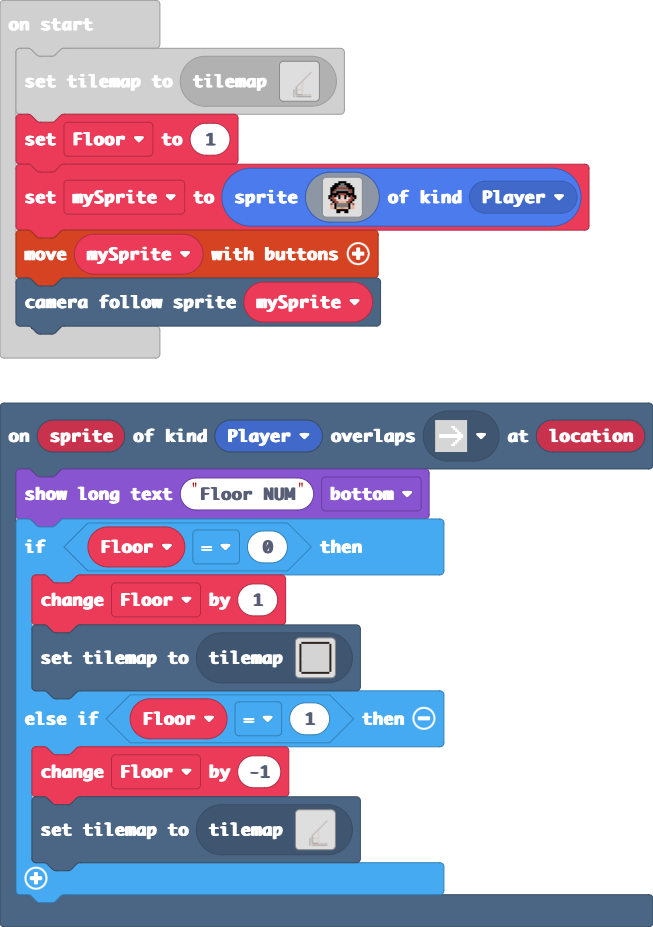
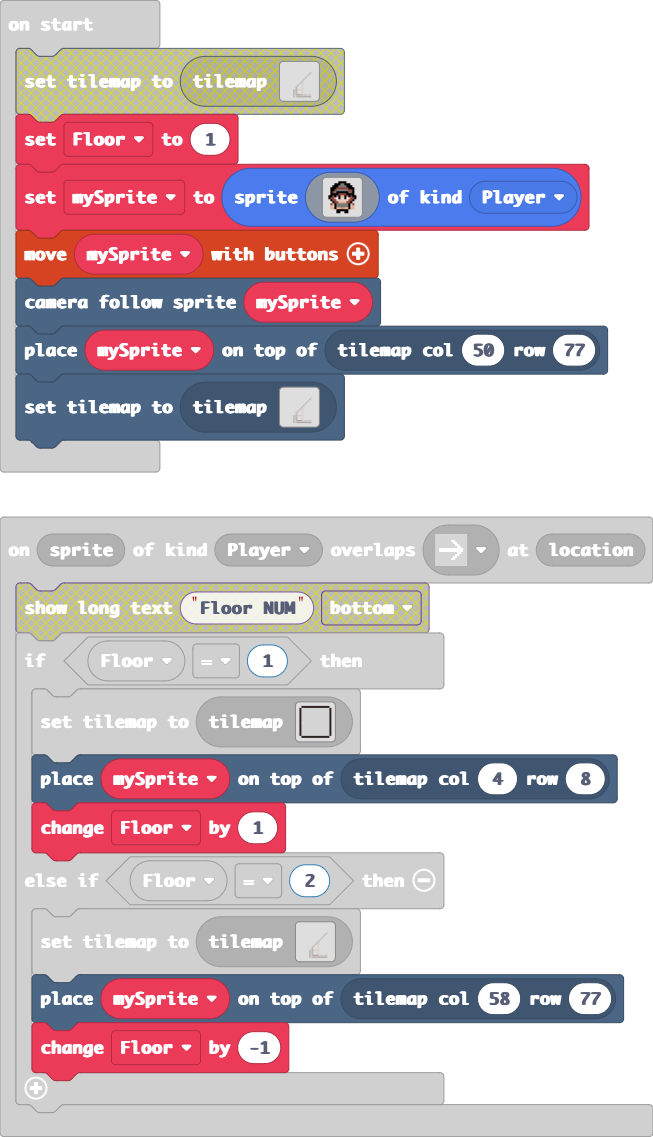
Update main.blocks, main.ts, tilemap.g.jres, tilemap.g.ts

diff --git a/tilemap.g.ts b/tilemap.g.ts
@@ -307,7 +307,64 @@ namespace myTiles {
 . . . . . . . . . . . . . . . . 
 . . . . . . . . . . . . . . . . 
 . . . . . . . . . . . . . . . . 
-`, [myTiles.transparency16,myTiles.tile1,myTiles.tile3,myTiles.tile4,myTiles.tile5,myTiles.tile6,myTiles.tile20], TileScale.Sixteen);
+`, [myTiles.transparency16,myTiles.tile1,myTiles.tile3,myTiles.tile4,myTiles.tile5,myTiles.tile6,myTiles.tile11], TileScale.Sixteen);
+            case "level6":
+            case "level6":return tiles.createTilemap(hex`1000100000000000000000000000000000000000000000000000000000000000000000000000000000000000000000000000000000000000000000000000000000000000000000000000000000000000000000000000000000000000000000000000000000000000000000000000000000000000000000000000000000000000000000000000000000000000000000000000000000000000000000000000000000000000000000000000000000000000000000000000000000000000000000000000000000000000000000000000000000000000000000000000000000000000000000000000000000000000000000000000000000000000000000000000000000000000`, img`
+. . . . . . . . . . . . . . . . 
+. . . . . . . . . . . . . . . . 
+. . . . . . . . . . . . . . . . 
+. . . . . . . . . . . . . . . . 
+. . . . . . . . . . . . . . . . 
+. . . . . . . . . . . . . . . . 
+. . . . . . . . . . . . . . . . 
+. . . . . . . . . . . . . . . . 
+. . . . . . . . . . . . . . . . 
+. . . . . . . . . . . . . . . . 
+. . . . . . . . . . . . . . . . 
+. . . . . . . . . . . . . . . . 
+. . . . . . . . . . . . . . . . 
+. . . . . . . . . . . . . . . . 
+. . . . . . . . . . . . . . . . 
+. . . . . . . . . . . . . . . . 
+`, [myTiles.transparency16], TileScale.Sixteen);
+            case "level7":
+            case "level7":return tiles.createTilemap(hex`1000100000000000000000000000000000000000000000000000000000000000000000000000000000000000000000000000000000000000000000000000000000000000000000000000000000000000000000000000000000000000000000000000000000000000000000000000000000000000000000000000000000000000000000000000000000000000000000000000000000000000000000000000000000000000000000000000000000000000000000000000000000000000000000000000000000000000000000000000000000000000000000000000000000000000000000000000000000000000000000000000000000000000000000000000000000000000`, img`
+. . . . . . . . . . . . . . . . 
+. . . . . . . . . . . . . . . . 
+. . . . . . . . . . . . . . . . 
+. . . . . . . . . . . . . . . . 
+. . . . . . . . . . . . . . . . 
+. . . . . . . . . . . . . . . . 
+. . . . . . . . . . . . . . . . 
+. . . . . . . . . . . . . . . . 
+. . . . . . . . . . . . . . . . 
+. . . . . . . . . . . . . . . . 
+. . . . . . . . . . . . . . . . 
+. . . . . . . . . . . . . . . . 
+. . . . . . . . . . . . . . . . 
+. . . . . . . . . . . . . . . . 
+. . . . . . . . . . . . . . . . 
+. . . . . . . . . . . . . . . . 
+`, [myTiles.transparency16], TileScale.Sixteen);
+            case "level8":
+            case "level8":return tiles.createTilemap(hex`1000100000000000000000000000000000000000000000000000000000000000000000000000000000000000000000000000000000000000000000000000000000000000000000000000000000000000000000000000000000000000000000000000000000000000000000000000000000000000000000000000000000000000000000000000000000000000000000000000000000000000000000000000000000000000000000000000000000000000000000000000000000000000000000000000000000000000000000000000000000000000000000000000000000000000000000000000000000000000000000000000000000000000000000000000000000000000`, img`
+. . . . . . . . . . . . . . . . 
+. . . . . . . . . . . . . . . . 
+. . . . . . . . . . . . . . . . 
+. . . . . . . . . . . . . . . . 
+. . . . . . . . . . . . . . . . 
+. . . . . . . . . . . . . . . . 
+. . . . . . . . . . . . . . . . 
+. . . . . . . . . . . . . . . . 
+. . . . . . . . . . . . . . . . 
+. . . . . . . . . . . . . . . . 
+. . . . . . . . . . . . . . . . 
+. . . . . . . . . . . . . . . . 
+. . . . . . . . . . . . . . . . 
+. . . . . . . . . . . . . . . . 
+. . . . . . . . . . . . . . . . 
+. . . . . . . . . . . . . . . . 
+`, [myTiles.transparency16], TileScale.Sixteen);
         }
         return null;
     })

diff --git a/main.ts b/main.ts
@@ -1,17 +1,19 @@
 scene.onOverlapTile(SpriteKind.Player, assets.tile`myTile9`, function (sprite, location) {
-    game.showLongText("Floor NUM", DialogLayout.Bottom)
-    if (Floor == 0) {
-        Floor += 1
+    if (Floor == 1) {
         tiles.setCurrentTilemap(tilemap`level3`)
-    } else if (Floor == 1) {
-        Floor += -1
+        tiles.placeOnTile(mySprite, tiles.getTileLocation(4, 8))
+        Floor += 1
+    } else if (Floor == 2) {
         tiles.setCurrentTilemap(tilemap`level2`)
+        tiles.placeOnTile(mySprite, tiles.getTileLocation(58, 77))
+        Floor += -1
     }
 })
+let mySprite: Sprite = null
 let Floor = 0
 tiles.setCurrentTilemap(tilemap`level2`)
 Floor = 1
-let mySprite = sprites.create(img`
+mySprite = sprites.create(img`
     . . . . . . f f f f . . . . . . 
     . . . . f f f 2 2 f f f . . . . 
     . . . f f f 2 2 2 2 f f f . . . 
@@ -31,3 +33,4 @@ let mySprite = sprites.create(img`
     `, SpriteKind.Player)
 controller.moveSprite(mySprite)
 scene.cameraFollowSprite(mySprite)
+tiles.placeOnTile(mySprite, tiles.getTileLocation(50, 77))
